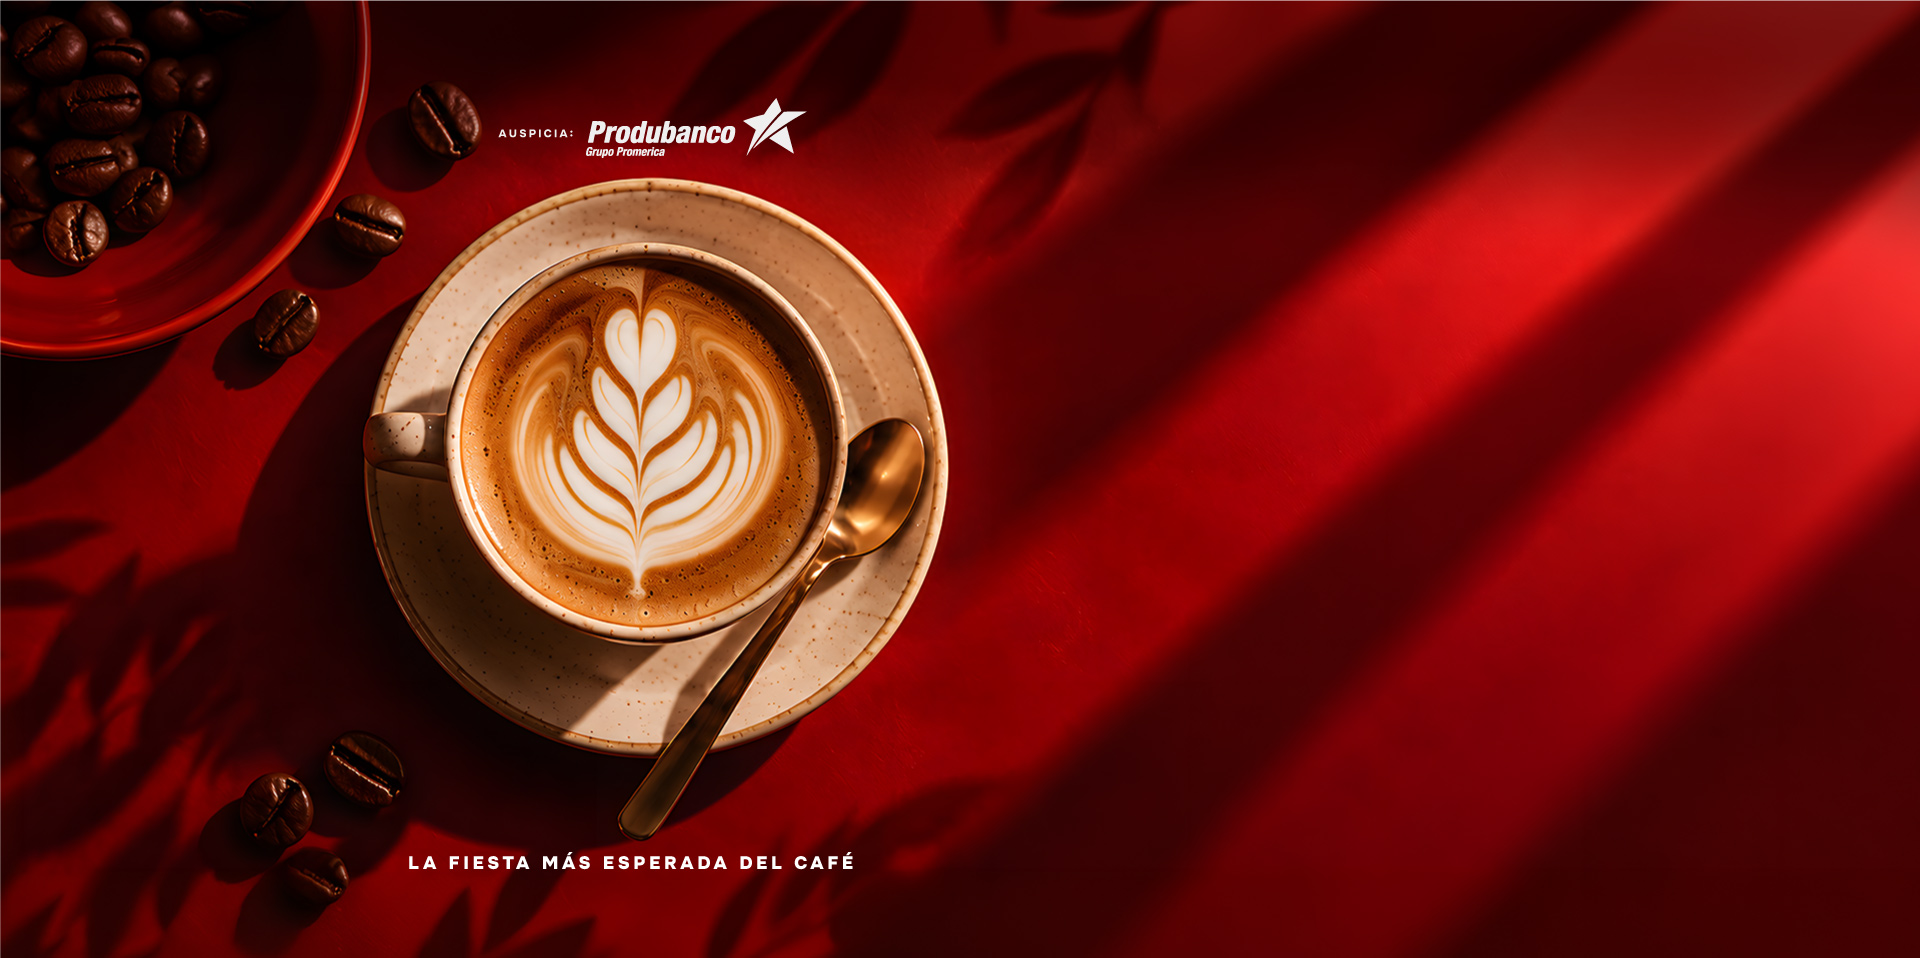
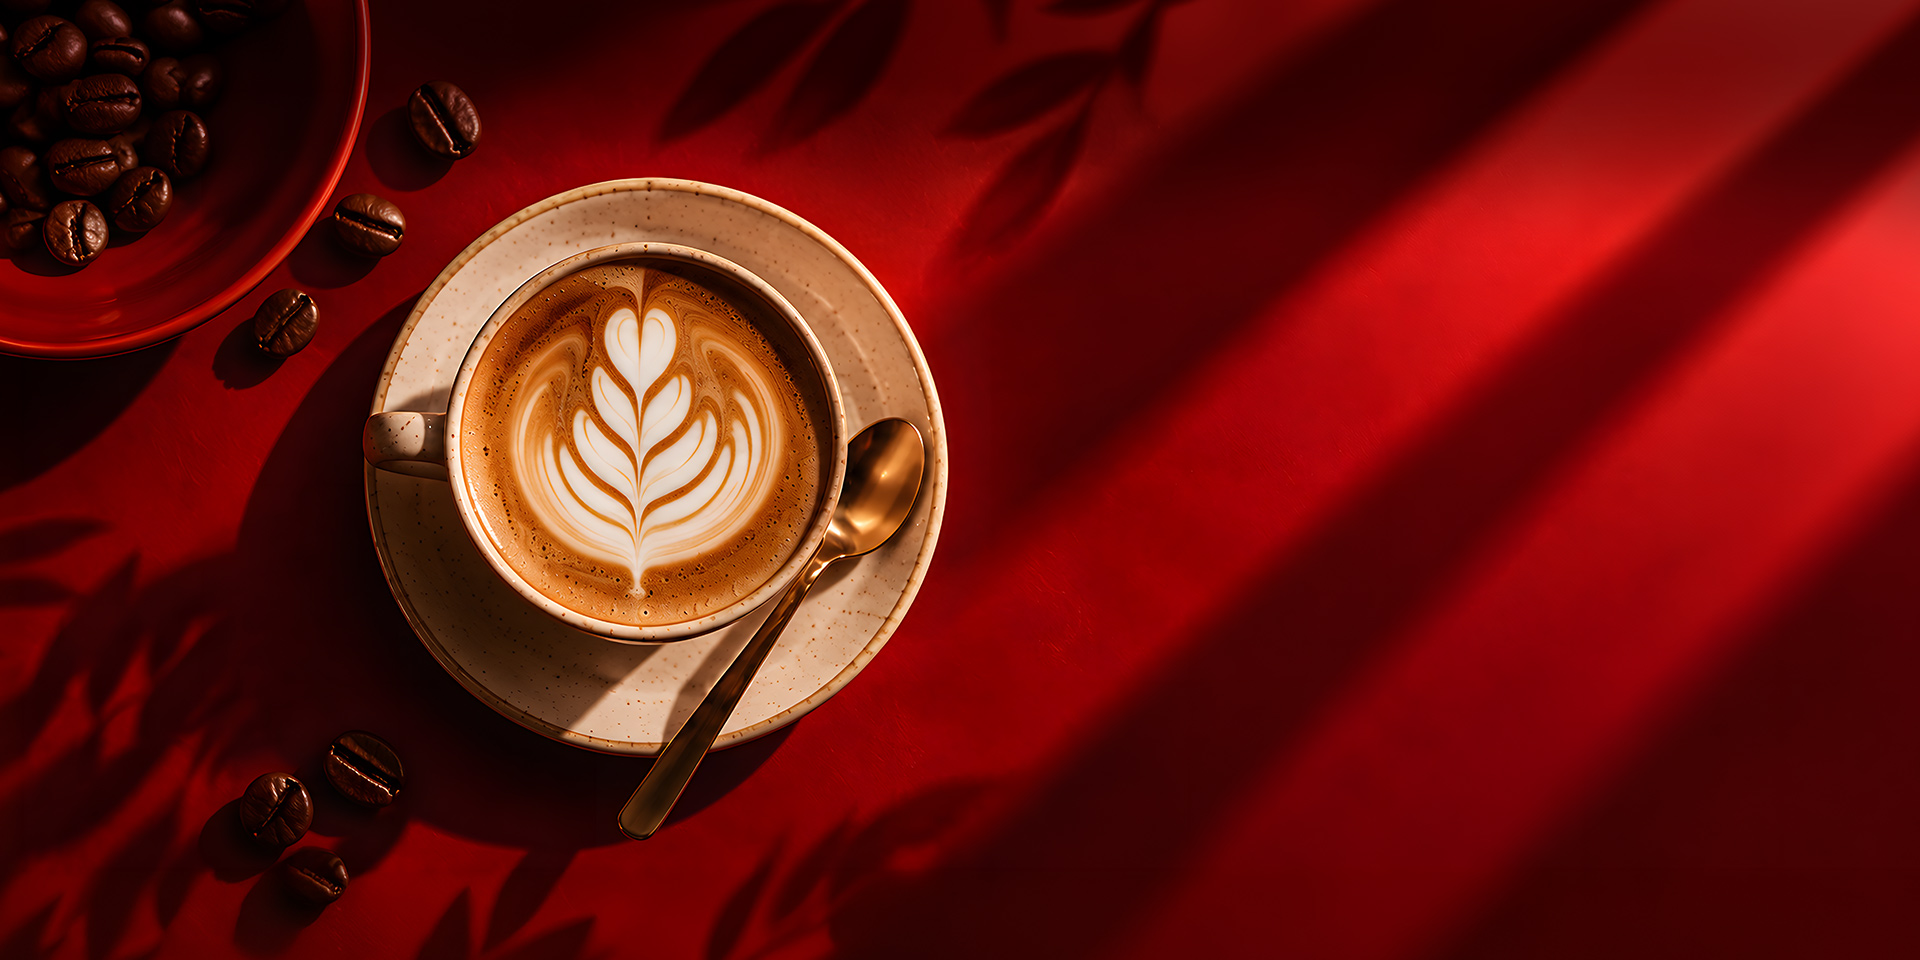
Before the other change

diff --git a/css/styles.css b/css/styles.css
@@ -166,7 +166,7 @@ img.img-missing { display: none; }
 .hero__bg {
   position: absolute;
   inset: 0;
-  background: url("../assets/img/Hero1.jpg") no-repeat;
+  background: url("../assets/img/Hero1-mobile.jpg") no-repeat;
   background-position: center;
   background-size: cover;
   z-index: 0;
@@ -254,13 +254,16 @@ img.img-missing { display: none; }
 
 @media (min-width: 768px) {
   .hero { padding: 72px 0 56px; }
+  .hero__bg { background-image: url("../assets/img/Hero1.jpg"); }
   .hero__inner {
     flex-direction: row;
     align-items: stretch;
     text-align: left;
     gap: 48px;
   }
-  /* Left column: sponsor above the cup, tagline below it (cup is in the bg image) */
+  /* Left column: sponsor logo + tagline are baked into the bg image now, so
+     .hero__side just reserves the layout space; its content is visually hidden
+     but stays in the DOM for accessibility/SEO. */
   .hero__side {
     display: flex;
     flex-direction: column;
@@ -268,8 +271,17 @@ img.img-missing { display: none; }
     align-items: center;
     flex: 1;
   }
+  .hero__side .hero__sponsor,
+  .hero__side .hero__tagline {
+    position: absolute;
+    width: 1px; height: 1px;
+    padding: 0; margin: -1px;
+    overflow: hidden;
+    clip: rect(0,0,0,0);
+    white-space: nowrap;
+    border: 0;
+  }
   .hero__content { flex: 1; align-items: center; }
-  .hero__tagline { text-align: left; }
   .hero__lips { width: 300px; }
 }
 
